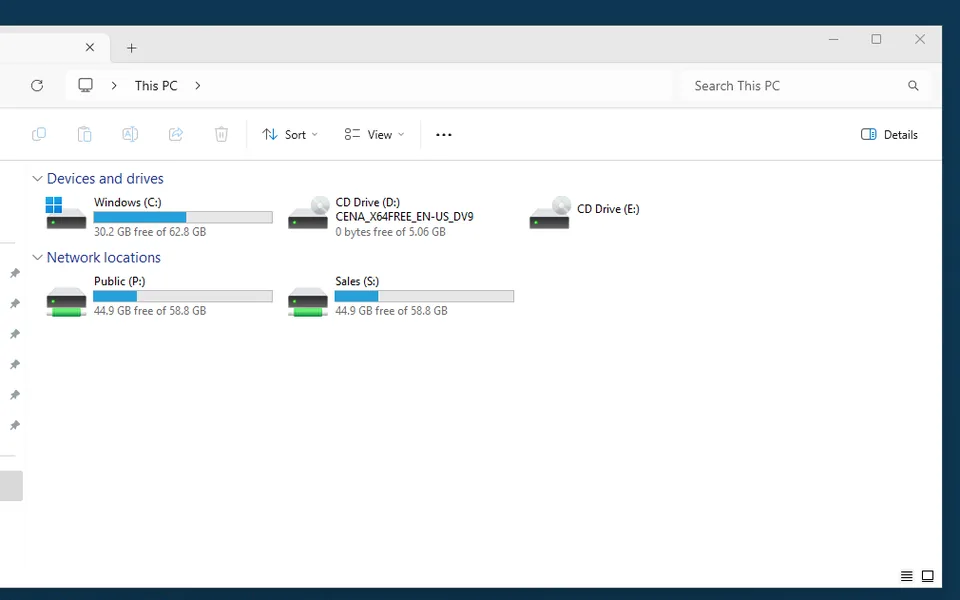
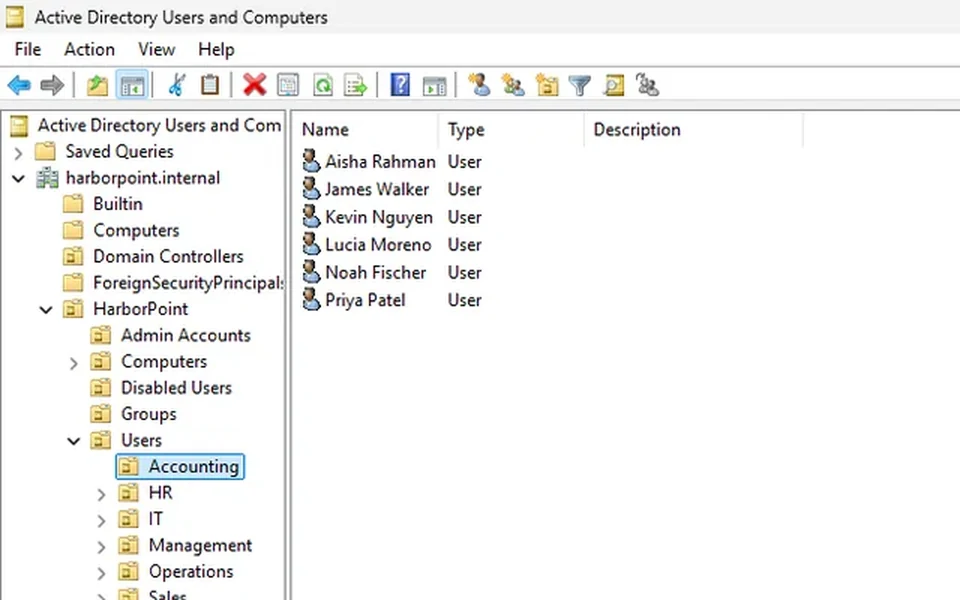
Put Experience first, add About to the menu, add a 404 page
- Experience section now comes before Projects, in the page and the menu
- About is back in the menu on every page
- 404 page for missing URLs instead of falling back to the home page
- Windows AD card uses a readable crop of Active Directory Users and Computers

diff --git a/index.html b/index.html
@@ -50,11 +50,12 @@
       <a class="brand" href="#top">Sean Lennard Orias</a>
       <nav aria-label="Primary">
         <ul class="nav-links">
-          <li><a href="#projects">Projects</a></li>
           <li><a href="#experience">Experience</a></li>
+          <li><a href="#projects">Projects</a></li>
           <li><a href="#notes">Notes</a></li>
           <li><a href="#skills">Skills</a></li>
           <li><a href="#certifications">Certifications</a></li>
+          <li><a href="#about">About</a></li>
           <li><a href="#contact">Contact</a></li>
         </ul>
       </nav>
@@ -100,6 +101,41 @@
             <a href="https://github.com/deadnme" target="_blank" rel="noopener noreferrer">GitHub<span class="visually-hidden"> (opens in a new tab)</span></a>
           </div>
         </div>
+      </div>
+    </section>
+
+    <section id="experience">
+      <div class="container">
+        <div class="section-head"><h2>Experience</h2></div>
+        <article>
+          <div class="role-head">
+            <h3>Server Administrator Intern</h3>
+            <span class="role-dates">January 26 &ndash; April 15, 2026</span>
+          </div>
+          <p class="role-org">StartupLab Business Center &amp; AI Consulting Agency OPC</p>
+          <ul class="bullets">
+            <li>Executed an end-to-end migration of a client&rsquo;s website and business email from legacy WHM/cPanel hosting to Hostinger/CyberPanel: backups, DNS pointing, mailbox provisioning, delta resynchronisation, permissions and post-cutover validation.</li>
+            <li>Implemented and troubleshot AI chatbot deployments across company and client websites by configuring cron jobs, ingestion workflows, branding and backend integrations.</li>
+            <li>Administered hosting environments using WHM, cPanel, Cloudflare, Hostinger and Domainmod; performed log cleanup, disk-usage audits, temporary-file maintenance and uptime monitoring supporting 99% availability targets.</li>
+            <li>Diagnosed and resolved issues involving email delivery, Spamhaus incidents, webmail access, ticketing systems and client-side mail configuration, including on-site support during the server transition.</li>
+            <li>Authored 60+ help-center and internal knowledge-base articles on domain management, DNS, website connectivity, business email, security and server operations.</li>
+          </ul>
+          <div class="chips-row">
+            <span>Tools</span>
+            <ul class="chips" aria-label="Tools used during the internship">
+              <li>cPanel</li>
+              <li>WHM</li>
+              <li>CyberPanel</li>
+              <li>Hostinger</li>
+              <li>Cloudflare</li>
+              <li>Domainmod</li>
+              <li>DNS</li>
+              <li>Linux CLI</li>
+              <li>VPS migration</li>
+              <li>BeDesk</li>
+            </ul>
+          </div>
+        </article>
       </div>
     </section>
 
@@ -177,41 +213,6 @@
         </div>
 
         <p class="section-note">The two homelabs and the health report are learning projects, not production work. I built them with AI assistance as guided walkthroughs, then ran every step on my own machines and AWS account, fixed what broke and wrote it up. The game was a team capstone, where I was a programmer.</p>
-      </div>
-    </section>
-
-    <section id="experience">
-      <div class="container">
-        <div class="section-head"><h2>Experience</h2></div>
-        <article>
-          <div class="role-head">
-            <h3>Server Administrator Intern</h3>
-            <span class="role-dates">January 26 &ndash; April 15, 2026</span>
-          </div>
-          <p class="role-org">StartupLab Business Center &amp; AI Consulting Agency OPC</p>
-          <ul class="bullets">
-            <li>Executed an end-to-end migration of a client&rsquo;s website and business email from legacy WHM/cPanel hosting to Hostinger/CyberPanel: backups, DNS pointing, mailbox provisioning, delta resynchronisation, permissions and post-cutover validation.</li>
-            <li>Implemented and troubleshot AI chatbot deployments across company and client websites by configuring cron jobs, ingestion workflows, branding and backend integrations.</li>
-            <li>Administered hosting environments using WHM, cPanel, Cloudflare, Hostinger and Domainmod; performed log cleanup, disk-usage audits, temporary-file maintenance and uptime monitoring supporting 99% availability targets.</li>
-            <li>Diagnosed and resolved issues involving email delivery, Spamhaus incidents, webmail access, ticketing systems and client-side mail configuration, including on-site support during the server transition.</li>
-            <li>Authored 60+ help-center and internal knowledge-base articles on domain management, DNS, website connectivity, business email, security and server operations.</li>
-          </ul>
-          <div class="chips-row">
-            <span>Tools</span>
-            <ul class="chips" aria-label="Tools used during the internship">
-              <li>cPanel</li>
-              <li>WHM</li>
-              <li>CyberPanel</li>
-              <li>Hostinger</li>
-              <li>Cloudflare</li>
-              <li>Domainmod</li>
-              <li>DNS</li>
-              <li>Linux CLI</li>
-              <li>VPS migration</li>
-              <li>BeDesk</li>
-            </ul>
-          </div>
-        </article>
       </div>
     </section>
 

diff --git a/404.html b/404.html
@@ -1,0 +1,68 @@
+<!DOCTYPE html>
+<html lang="en">
+<head>
+  <script>if (location.hostname.endsWith('github.io')) location.replace('https://seanorias.com/');</script>
+  <meta charset="UTF-8">
+  <meta name="viewport" content="width=device-width, initial-scale=1.0">
+  <title>Page not found | Sean Lennard Orias</title>
+  <meta name="robots" content="noindex">
+  <meta name="theme-color" content="#ffffff">
+  <link rel="icon" href="/assets/favicon.svg" type="image/svg+xml">
+  <link rel="stylesheet" href="/css/fonts.css">
+  <link rel="stylesheet" href="/css/tokens.css">
+  <link rel="stylesheet" href="/css/base.css">
+  <link rel="stylesheet" href="/css/layout.css">
+  <link rel="stylesheet" href="/css/components.css">
+  <link rel="stylesheet" href="/css/sections.css">
+  <link rel="stylesheet" href="/css/pages.css">
+  <link rel="stylesheet" href="/css/responsive.css">
+</head>
+<body>
+  <a class="skip-link" href="#main-content">Skip to content</a>
+
+  <header class="site-header">
+    <div class="container nav-shell">
+      <a class="brand" href="/">Sean Lennard Orias</a>
+      <nav aria-label="Primary">
+        <ul class="nav-links">
+          <li><a href="/#experience">Experience</a></li>
+          <li><a href="/#projects">Projects</a></li>
+          <li><a href="/#notes">Notes</a></li>
+          <li><a href="/#skills">Skills</a></li>
+          <li><a href="/#certifications">Certifications</a></li>
+          <li><a href="/#about">About</a></li>
+          <li><a href="/#contact">Contact</a></li>
+        </ul>
+      </nav>
+      <a href="/assets/Sean_Lennard_Orias_CV.pdf" class="btn btn-primary btn-small nav-cta" download>Download CV</a>
+    </div>
+  </header>
+
+  <main id="main-content">
+    <section class="page-head">
+      <div class="container">
+        <h1>Page not found</h1>
+        <p class="page-lead">The page you&rsquo;re looking for doesn&rsquo;t exist or has moved.</p>
+        <div class="page-links">
+          <a class="btn btn-primary" href="/">Go to the home page</a>
+          <a class="btn btn-secondary" href="/#projects">See my projects</a>
+        </div>
+      </div>
+    </section>
+  </main>
+
+  <footer class="site-footer">
+    <div class="container footer-shell">
+      <p>Sean Lennard Orias, <span id="footer-year"></span></p>
+      <div class="footer-links">
+        <a href="mailto:sean@seanorias.com">Email</a>
+        <a href="https://www.linkedin.com/in/sean-orias-67763924a/" target="_blank" rel="noopener noreferrer">LinkedIn</a>
+        <a href="https://github.com/deadnme" target="_blank" rel="noopener noreferrer">GitHub</a>
+        <a href="/assets/Sean_Lennard_Orias_CV.pdf" download>CV</a>
+      </div>
+    </div>
+  </footer>
+
+  <script src="/js/nav.js" defer></script>
+</body>
+</html>

diff --git a/projects/ad-health-report.html b/projects/ad-health-report.html
@@ -32,11 +32,12 @@
       <a class="brand" href="../index.html">Sean Lennard Orias</a>
       <nav aria-label="Primary">
         <ul class="nav-links">
-          <li><a href="../index.html#projects" aria-current="page">Projects</a></li>
           <li><a href="../index.html#experience">Experience</a></li>
+          <li><a href="../index.html#projects" aria-current="page">Projects</a></li>
           <li><a href="../index.html#notes">Notes</a></li>
           <li><a href="../index.html#skills">Skills</a></li>
           <li><a href="../index.html#certifications">Certifications</a></li>
+          <li><a href="../index.html#about">About</a></li>
           <li><a href="../index.html#contact">Contact</a></li>
         </ul>
       </nav>

diff --git a/projects/aws-cloud-homelab.html b/projects/aws-cloud-homelab.html
@@ -32,11 +32,12 @@
       <a class="brand" href="../index.html">Sean Lennard Orias</a>
       <nav aria-label="Primary">
         <ul class="nav-links">
-          <li><a href="../index.html#projects" aria-current="page">Projects</a></li>
           <li><a href="../index.html#experience">Experience</a></li>
+          <li><a href="../index.html#projects" aria-current="page">Projects</a></li>
           <li><a href="../index.html#notes">Notes</a></li>
           <li><a href="../index.html#skills">Skills</a></li>
           <li><a href="../index.html#certifications">Certifications</a></li>
+          <li><a href="../index.html#about">About</a></li>
           <li><a href="../index.html#contact">Contact</a></li>
         </ul>
       </nav>

diff --git a/projects/disaster-preparedness-game.html b/projects/disaster-preparedness-game.html
@@ -32,11 +32,12 @@
       <a class="brand" href="../index.html">Sean Lennard Orias</a>
       <nav aria-label="Primary">
         <ul class="nav-links">
-          <li><a href="../index.html#projects" aria-current="page">Projects</a></li>
           <li><a href="../index.html#experience">Experience</a></li>
+          <li><a href="../index.html#projects" aria-current="page">Projects</a></li>
           <li><a href="../index.html#notes">Notes</a></li>
           <li><a href="../index.html#skills">Skills</a></li>
           <li><a href="../index.html#certifications">Certifications</a></li>
+          <li><a href="../index.html#about">About</a></li>
           <li><a href="../index.html#contact">Contact</a></li>
         </ul>
       </nav>

diff --git a/projects/windows-ad-homelab.html b/projects/windows-ad-homelab.html
@@ -32,11 +32,12 @@
       <a class="brand" href="../index.html">Sean Lennard Orias</a>
       <nav aria-label="Primary">
         <ul class="nav-links">
-          <li><a href="../index.html#projects" aria-current="page">Projects</a></li>
           <li><a href="../index.html#experience">Experience</a></li>
+          <li><a href="../index.html#projects" aria-current="page">Projects</a></li>
           <li><a href="../index.html#notes">Notes</a></li>
           <li><a href="../index.html#skills">Skills</a></li>
           <li><a href="../index.html#certifications">Certifications</a></li>
+          <li><a href="../index.html#about">About</a></li>
           <li><a href="../index.html#contact">Contact</a></li>
         </ul>
       </nav>

diff --git a/notes/asg-launch-authentication-failure.html b/notes/asg-launch-authentication-failure.html
@@ -32,11 +32,12 @@
       <a class="brand" href="../index.html">Sean Lennard Orias</a>
       <nav aria-label="Primary">
         <ul class="nav-links">
-          <li><a href="../index.html#projects">Projects</a></li>
           <li><a href="../index.html#experience">Experience</a></li>
+          <li><a href="../index.html#projects">Projects</a></li>
           <li><a href="../index.html#notes" aria-current="page">Notes</a></li>
           <li><a href="../index.html#skills">Skills</a></li>
           <li><a href="../index.html#certifications">Certifications</a></li>
+          <li><a href="../index.html#about">About</a></li>
           <li><a href="../index.html#contact">Contact</a></li>
         </ul>
       </nav>

diff --git a/notes/budget-alerts-blocked-by-scp.html b/notes/budget-alerts-blocked-by-scp.html
@@ -32,11 +32,12 @@
       <a class="brand" href="../index.html">Sean Lennard Orias</a>
       <nav aria-label="Primary">
         <ul class="nav-links">
-          <li><a href="../index.html#projects">Projects</a></li>
           <li><a href="../index.html#experience">Experience</a></li>
+          <li><a href="../index.html#projects">Projects</a></li>
           <li><a href="../index.html#notes" aria-current="page">Notes</a></li>
           <li><a href="../index.html#skills">Skills</a></li>
           <li><a href="../index.html#certifications">Certifications</a></li>
+          <li><a href="../index.html#about">About</a></li>
           <li><a href="../index.html#contact">Contact</a></li>
         </ul>
       </nav>

diff --git a/notes/explicit-deny-from-above.html b/notes/explicit-deny-from-above.html
@@ -32,11 +32,12 @@
       <a class="brand" href="../index.html">Sean Lennard Orias</a>
       <nav aria-label="Primary">
         <ul class="nav-links">
-          <li><a href="../index.html#projects">Projects</a></li>
           <li><a href="../index.html#experience">Experience</a></li>
+          <li><a href="../index.html#projects">Projects</a></li>
           <li><a href="../index.html#notes" aria-current="page">Notes</a></li>
           <li><a href="../index.html#skills">Skills</a></li>
           <li><a href="../index.html#certifications">Certifications</a></li>
+          <li><a href="../index.html#about">About</a></li>
           <li><a href="../index.html#contact">Contact</a></li>
         </ul>
       </nav>

diff --git a/notes/helpdesk-could-reset-domain-admin.html b/notes/helpdesk-could-reset-domain-admin.html
@@ -32,11 +32,12 @@
       <a class="brand" href="../index.html">Sean Lennard Orias</a>
       <nav aria-label="Primary">
         <ul class="nav-links">
-          <li><a href="../index.html#projects">Projects</a></li>
           <li><a href="../index.html#experience">Experience</a></li>
+          <li><a href="../index.html#projects">Projects</a></li>
           <li><a href="../index.html#notes" aria-current="page">Notes</a></li>
           <li><a href="../index.html#skills">Skills</a></li>
           <li><a href="../index.html#certifications">Certifications</a></li>
+          <li><a href="../index.html#about">About</a></li>
           <li><a href="../index.html#contact">Contact</a></li>
         </ul>
       </nav>
